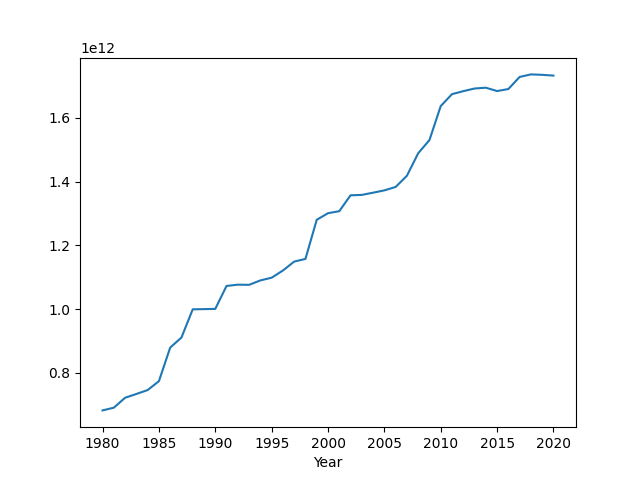
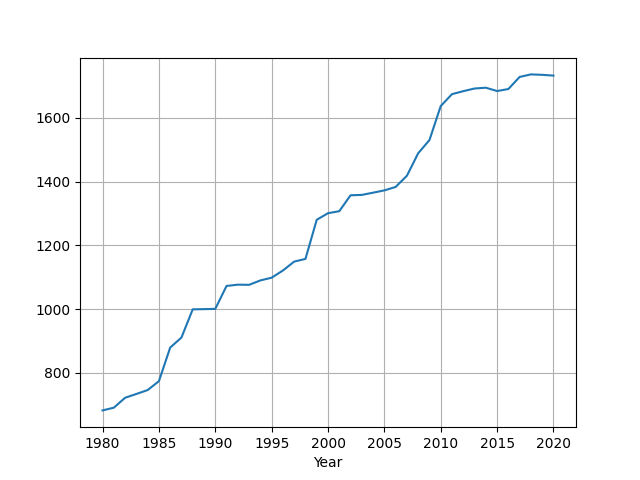
--

diff --git a/en/tweets/2022/util.py b/en/tweets/2022/util.py
@@ -14,6 +14,15 @@ import urllib.request as urllib2
 from io import BytesIO
 import pandas_ta as ta
 
+def plot_fred(year, series):
+    today = datetime.datetime.now()
+    start=datetime.datetime(year, 1, 1)
+    end=datetime.datetime(today.year, today.month, today.day)
+    df = data.DataReader(series, 'fred', start, end)
+    print (df.tail(3))
+    df.plot(); plt.savefig('out.png')
+    return df
+    
 def get_eia(series):
     api_key = open('.key/.eiakey').read()
     url = 'https://api.eia.gov/series/?api_key=%s&series_id=%s'

diff --git a/en/2019/05/energstats.md b/en/2019/05/energstats.md
@@ -47,6 +47,7 @@ Name: 1, dtype: float64
 
 ![](worldoil.png)
 
+
 ### Opec Oil Production
 
 Million barrels a day
@@ -74,23 +75,26 @@ Name: 1, dtype: float64
 
 Data from [Our World in Data](https://ourworldindata.org/grapher/oil-proved-reserves?country=~OWID_WRL).
 Estimated amount of oil underground that can be dug up and brought to the
-market.
+market. Units are billion barrels. 
 
 ```python
 import pandas as pd
-df = pd.read_csv('oil-proved-reserves.csv')
-df = df[df.Entity=='World'].set_index('Year')
-df['Oil - Proved reserves'].plot()
-print (df['Oil - Proved reserves'].tail(4))
+fbp = 'bp-stats-review-2022-consolidated-dataset-panel-format.csv'
+df = pd.read_csv(fbp)
+df = df[df.Country == 'Total World']
+df = df.set_index('Year')
+print (df.oilreserves_bbl.tail(4))
+df.oilreserves_bbl.plot(grid=True)
+plt.savefig('oilreserves.png')
 ```
 
 ```text
 Year
-2017    1.728171e+12
-2018    1.736144e+12
-2019    1.734811e+12
-2020    1.732366e+12
-Name: Oil - Proved reserves, dtype: float64
+2018    1736.144020
+2019    1734.810537
+2020    1732.366175
+2021            NaN
+Name: oilreserves_bbl, dtype: float64
 ```
 
 ![](oilreserves.png)

diff --git a/en/README.md b/en/README.md
@@ -104,7 +104,7 @@ H2 generation from coal with CCS of course.
 
 ---
 
-Vehicles of this type will shift to H2
+Vehicles of this type will shift to H2 quicker
 
 CNBC: "Ford Unleashes A 700-Horsepower V8 In The F-150 Raptor
 R... Ford revealed the pickup truck as the most powerful Raptor ever
